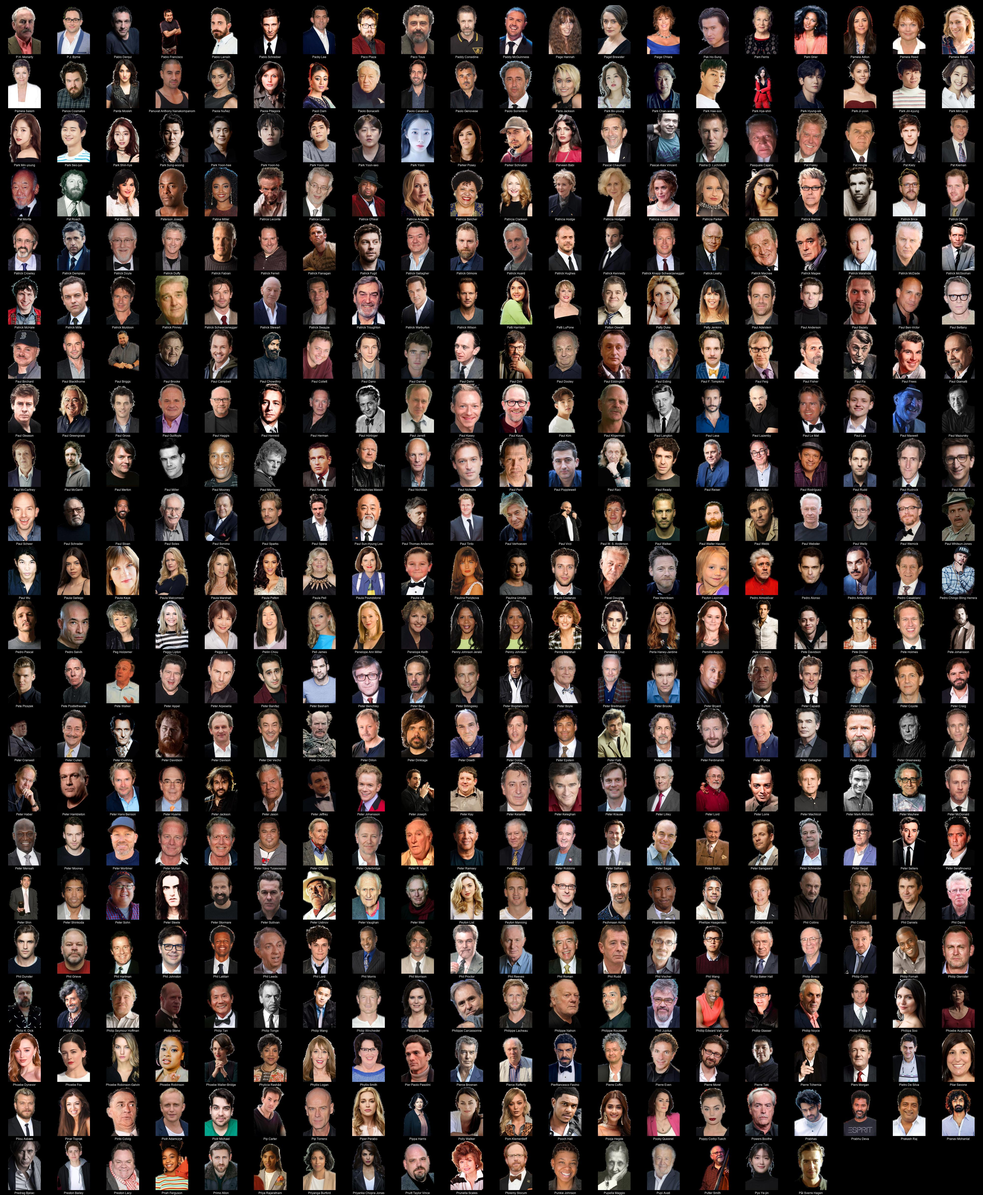
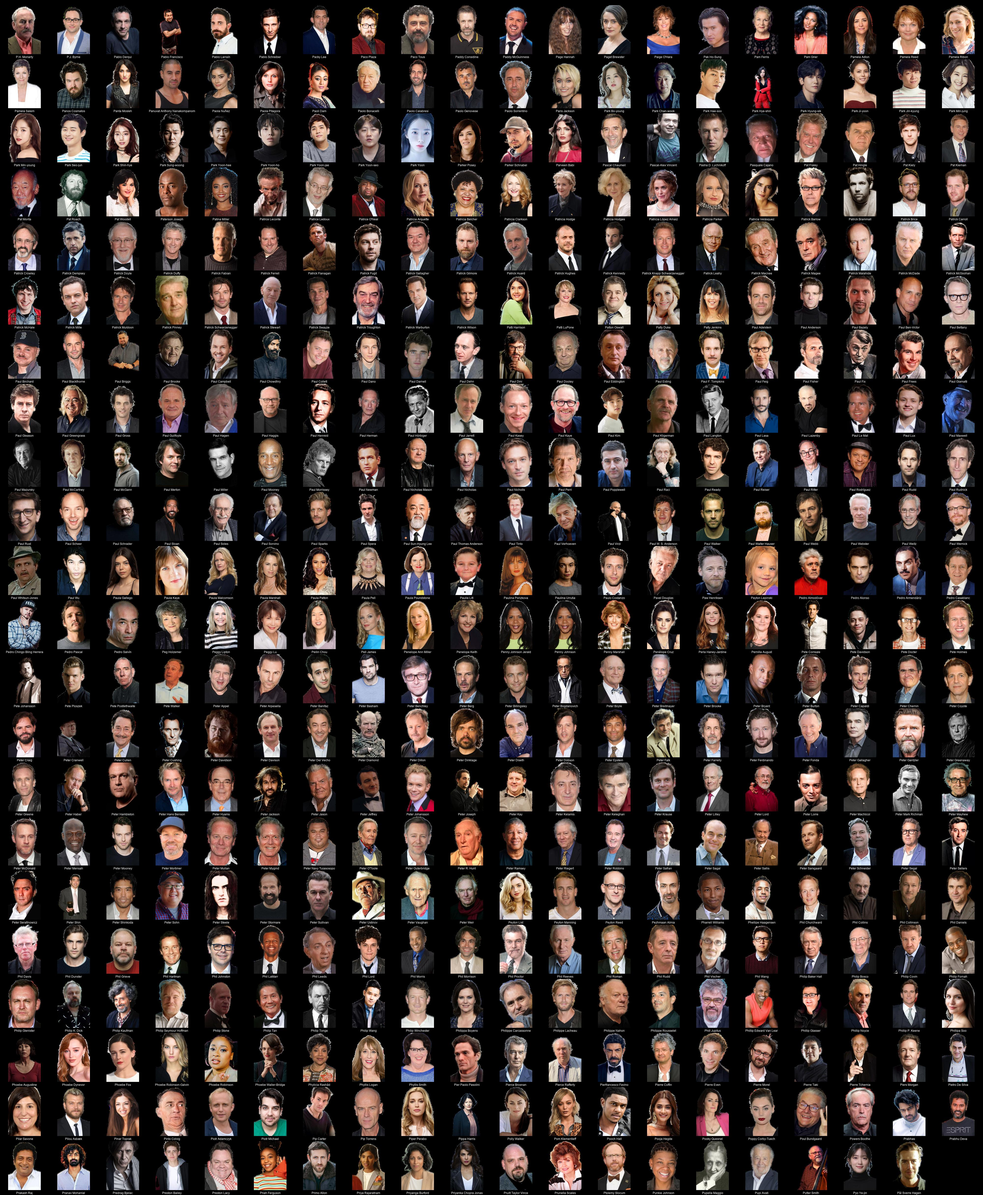
chore: sync posters & docs [transparent,diiivoycolor] — 2025-09-21 21:41

Changed region(s): [[0.0, 0.3107, 1.0, 1.0]]

diff --git a/README.md b/README.md
@@ -1,4 +1,4 @@
-# Kometa People Images - Transparent (transparent) (11153 Images)
+# Kometa People Images - Transparent (transparent) (11157 Images)
 
 <details><summary><a href="'">' (1 Images)</a></summary>
 
@@ -2195,7 +2195,7 @@
 * [Cédric Klapisch](https://raw.githubusercontent.com/kometa-team/People-Images-transparent/master/C/Images/C%C3%A9dric%20Klapisch.png)
 * [Céline Sciamma](https://raw.githubusercontent.com/kometa-team/People-Images-transparent/master/C/Images/C%C3%A9line%20Sciamma.png)
 </details>
-<details><summary><a href="D">D (712 Images)</a></summary>
+<details><summary><a href="D">D (713 Images)</a></summary>
 
 * [D. David Morin](https://raw.githubusercontent.com/kometa-team/People-Images-transparent/master/D/Images/D.%20David%20Morin.png)
 * [D.A. Obahor](https://raw.githubusercontent.com/kometa-team/People-Images-transparent/master/D/Images/D.A.%20Obahor.png)
@@ -2759,6 +2759,7 @@
 * [Diogo Morgado](https://raw.githubusercontent.com/kometa-team/People-Images-transparent/master/D/Images/Diogo%20Morgado.png)
 * [Dion Graham](https://raw.githubusercontent.com/kometa-team/People-Images-transparent/master/D/Images/Dion%20Graham.png)
 * [Diora Baird](https://raw.githubusercontent.com/kometa-team/People-Images-transparent/master/D/Images/Diora%20Baird.png)
+* [Dirch Passer](https://raw.githubusercontent.com/kometa-team/People-Images-transparent/master/D/Images/Dirch%20Passer.png)
 * [Dirk Benedict](https://raw.githubusercontent.com/kometa-team/People-Images-transparent/master/D/Images/Dirk%20Benedict.png)
 * [Dirk Blocker](https://raw.githubusercontent.com/kometa-team/People-Images-transparent/master/D/Images/Dirk%20Blocker.png)
 * [Divian Ladwa](https://raw.githubusercontent.com/kometa-team/People-Images-transparent/master/D/Images/Divian%20Ladwa.png)
@@ -5709,7 +5710,7 @@
 * [Jürgen Vogel](https://raw.githubusercontent.com/kometa-team/People-Images-transparent/master/J/Images/J%C3%BCrgen%20Vogel.png)
 * [Jūzō Itami](https://raw.githubusercontent.com/kometa-team/People-Images-transparent/master/J/Images/J%C5%ABz%C5%8D%20Itami.png)
 </details>
-<details><summary><a href="K">K (540 Images)</a></summary>
+<details><summary><a href="K">K (541 Images)</a></summary>
 
 * [K Raghavendra Rao](https://raw.githubusercontent.com/kometa-team/People-Images-transparent/master/K/Images/K%20Raghavendra%20Rao.png)
 * [K.J. Apa](https://raw.githubusercontent.com/kometa-team/People-Images-transparent/master/K/Images/K.J.%20Apa.png)
@@ -5776,6 +5777,7 @@
 * [Karl Glusman](https://raw.githubusercontent.com/kometa-team/People-Images-transparent/master/K/Images/Karl%20Glusman.png)
 * [Karl Johnson](https://raw.githubusercontent.com/kometa-team/People-Images-transparent/master/K/Images/Karl%20Johnson.png)
 * [Karl Makinen](https://raw.githubusercontent.com/kometa-team/People-Images-transparent/master/K/Images/Karl%20Makinen.png)
+* [Karl Stegger](https://raw.githubusercontent.com/kometa-team/People-Images-transparent/master/K/Images/Karl%20Stegger.png)
 * [Karl Urban](https://raw.githubusercontent.com/kometa-team/People-Images-transparent/master/K/Images/Karl%20Urban.png)
 * [Karl Werleman](https://raw.githubusercontent.com/kometa-team/People-Images-transparent/master/K/Images/Karl%20Werleman.png)
 * [Karl Yune](https://raw.githubusercontent.com/kometa-team/People-Images-transparent/master/K/Images/Karl%20Yune.png)
@@ -8201,7 +8203,7 @@
 * [Owen Teale](https://raw.githubusercontent.com/kometa-team/People-Images-transparent/master/O/Images/Owen%20Teale.png)
 * [Owen Wilson](https://raw.githubusercontent.com/kometa-team/People-Images-transparent/master/O/Images/Owen%20Wilson.png)
 </details>
-<details><summary><a href="P">P (437 Images)</a></summary>
+<details><summary><a href="P">P (439 Images)</a></summary>
 
 * [P.H. Moriarty](https://raw.githubusercontent.com/kometa-team/People-Images-transparent/master/P/Images/P.H.%20Moriarty.png)
 * [P.J. Byrne](https://raw.githubusercontent.com/kometa-team/People-Images-transparent/master/P/Images/P.J.%20Byrne.png)
@@ -8347,6 +8349,7 @@
 * [Paul Greengrass](https://raw.githubusercontent.com/kometa-team/People-Images-transparent/master/P/Images/Paul%20Greengrass.png)
 * [Paul Gross](https://raw.githubusercontent.com/kometa-team/People-Images-transparent/master/P/Images/Paul%20Gross.png)
 * [Paul Guilfoyle](https://raw.githubusercontent.com/kometa-team/People-Images-transparent/master/P/Images/Paul%20Guilfoyle.png)
+* [Paul Hagen](https://raw.githubusercontent.com/kometa-team/People-Images-transparent/master/P/Images/Paul%20Hagen.png)
 * [Paul Haggis](https://raw.githubusercontent.com/kometa-team/People-Images-transparent/master/P/Images/Paul%20Haggis.png)
 * [Paul Henreid](https://raw.githubusercontent.com/kometa-team/People-Images-transparent/master/P/Images/Paul%20Henreid.png)
 * [Paul Herman](https://raw.githubusercontent.com/kometa-team/People-Images-transparent/master/P/Images/Paul%20Herman.png)
@@ -8618,6 +8621,7 @@
 * [Pooja Hegde](https://raw.githubusercontent.com/kometa-team/People-Images-transparent/master/P/Images/Pooja%20Hegde.png)
 * [Pooky Quesnel](https://raw.githubusercontent.com/kometa-team/People-Images-transparent/master/P/Images/Pooky%20Quesnel.png)
 * [Poppy Corby-Tuech](https://raw.githubusercontent.com/kometa-team/People-Images-transparent/master/P/Images/Poppy%20Corby-Tuech.png)
+* [Poul Bundgaard](https://raw.githubusercontent.com/kometa-team/People-Images-transparent/master/P/Images/Poul%20Bundgaard.png)
 * [Powers Boothe](https://raw.githubusercontent.com/kometa-team/People-Images-transparent/master/P/Images/Powers%20Boothe.png)
 * [Prabhas](https://raw.githubusercontent.com/kometa-team/People-Images-transparent/master/P/Images/Prabhas.png)
 * [Prabhu Deva](https://raw.githubusercontent.com/kometa-team/People-Images-transparent/master/P/Images/Prabhu%20Deva.png)

diff --git a/P/README.md b/P/README.md
@@ -1,4 +1,4 @@
-# Kometa People Images - Transparent (transparent) - P (437 Images)
+# Kometa People Images - Transparent (transparent) - P (439 Images)
 ![Grid](grid.jpg)
 
 * [P.H. Moriarty](https://raw.githubusercontent.com/kometa-team/People-Images-transparent/master/P/Images/P.H.%20Moriarty.png)
@@ -145,6 +145,7 @@
 * [Paul Greengrass](https://raw.githubusercontent.com/kometa-team/People-Images-transparent/master/P/Images/Paul%20Greengrass.png)
 * [Paul Gross](https://raw.githubusercontent.com/kometa-team/People-Images-transparent/master/P/Images/Paul%20Gross.png)
 * [Paul Guilfoyle](https://raw.githubusercontent.com/kometa-team/People-Images-transparent/master/P/Images/Paul%20Guilfoyle.png)
+* [Paul Hagen](https://raw.githubusercontent.com/kometa-team/People-Images-transparent/master/P/Images/Paul%20Hagen.png)
 * [Paul Haggis](https://raw.githubusercontent.com/kometa-team/People-Images-transparent/master/P/Images/Paul%20Haggis.png)
 * [Paul Henreid](https://raw.githubusercontent.com/kometa-team/People-Images-transparent/master/P/Images/Paul%20Henreid.png)
 * [Paul Herman](https://raw.githubusercontent.com/kometa-team/People-Images-transparent/master/P/Images/Paul%20Herman.png)
@@ -416,6 +417,7 @@
 * [Pooja Hegde](https://raw.githubusercontent.com/kometa-team/People-Images-transparent/master/P/Images/Pooja%20Hegde.png)
 * [Pooky Quesnel](https://raw.githubusercontent.com/kometa-team/People-Images-transparent/master/P/Images/Pooky%20Quesnel.png)
 * [Poppy Corby-Tuech](https://raw.githubusercontent.com/kometa-team/People-Images-transparent/master/P/Images/Poppy%20Corby-Tuech.png)
+* [Poul Bundgaard](https://raw.githubusercontent.com/kometa-team/People-Images-transparent/master/P/Images/Poul%20Bundgaard.png)
 * [Powers Boothe](https://raw.githubusercontent.com/kometa-team/People-Images-transparent/master/P/Images/Powers%20Boothe.png)
 * [Prabhas](https://raw.githubusercontent.com/kometa-team/People-Images-transparent/master/P/Images/Prabhas.png)
 * [Prabhu Deva](https://raw.githubusercontent.com/kometa-team/People-Images-transparent/master/P/Images/Prabhu%20Deva.png)

diff --git a/D/README.md b/D/README.md
@@ -1,4 +1,4 @@
-# Kometa People Images - Transparent (transparent) - D (712 Images)
+# Kometa People Images - Transparent (transparent) - D (713 Images)
 ![Grid](grid.jpg)
 
 * [D. David Morin](https://raw.githubusercontent.com/kometa-team/People-Images-transparent/master/D/Images/D.%20David%20Morin.png)
@@ -563,6 +563,7 @@
 * [Diogo Morgado](https://raw.githubusercontent.com/kometa-team/People-Images-transparent/master/D/Images/Diogo%20Morgado.png)
 * [Dion Graham](https://raw.githubusercontent.com/kometa-team/People-Images-transparent/master/D/Images/Dion%20Graham.png)
 * [Diora Baird](https://raw.githubusercontent.com/kometa-team/People-Images-transparent/master/D/Images/Diora%20Baird.png)
+* [Dirch Passer](https://raw.githubusercontent.com/kometa-team/People-Images-transparent/master/D/Images/Dirch%20Passer.png)
 * [Dirk Benedict](https://raw.githubusercontent.com/kometa-team/People-Images-transparent/master/D/Images/Dirk%20Benedict.png)
 * [Dirk Blocker](https://raw.githubusercontent.com/kometa-team/People-Images-transparent/master/D/Images/Dirk%20Blocker.png)
 * [Divian Ladwa](https://raw.githubusercontent.com/kometa-team/People-Images-transparent/master/D/Images/Divian%20Ladwa.png)

diff --git a/K/README.md b/K/README.md
@@ -1,4 +1,4 @@
-# Kometa People Images - Transparent (transparent) - K (540 Images)
+# Kometa People Images - Transparent (transparent) - K (541 Images)
 ![Grid](grid.jpg)
 
 * [K Raghavendra Rao](https://raw.githubusercontent.com/kometa-team/People-Images-transparent/master/K/Images/K%20Raghavendra%20Rao.png)
@@ -66,6 +66,7 @@
 * [Karl Glusman](https://raw.githubusercontent.com/kometa-team/People-Images-transparent/master/K/Images/Karl%20Glusman.png)
 * [Karl Johnson](https://raw.githubusercontent.com/kometa-team/People-Images-transparent/master/K/Images/Karl%20Johnson.png)
 * [Karl Makinen](https://raw.githubusercontent.com/kometa-team/People-Images-transparent/master/K/Images/Karl%20Makinen.png)
+* [Karl Stegger](https://raw.githubusercontent.com/kometa-team/People-Images-transparent/master/K/Images/Karl%20Stegger.png)
 * [Karl Urban](https://raw.githubusercontent.com/kometa-team/People-Images-transparent/master/K/Images/Karl%20Urban.png)
 * [Karl Werleman](https://raw.githubusercontent.com/kometa-team/People-Images-transparent/master/K/Images/Karl%20Werleman.png)
 * [Karl Yune](https://raw.githubusercontent.com/kometa-team/People-Images-transparent/master/K/Images/Karl%20Yune.png)
